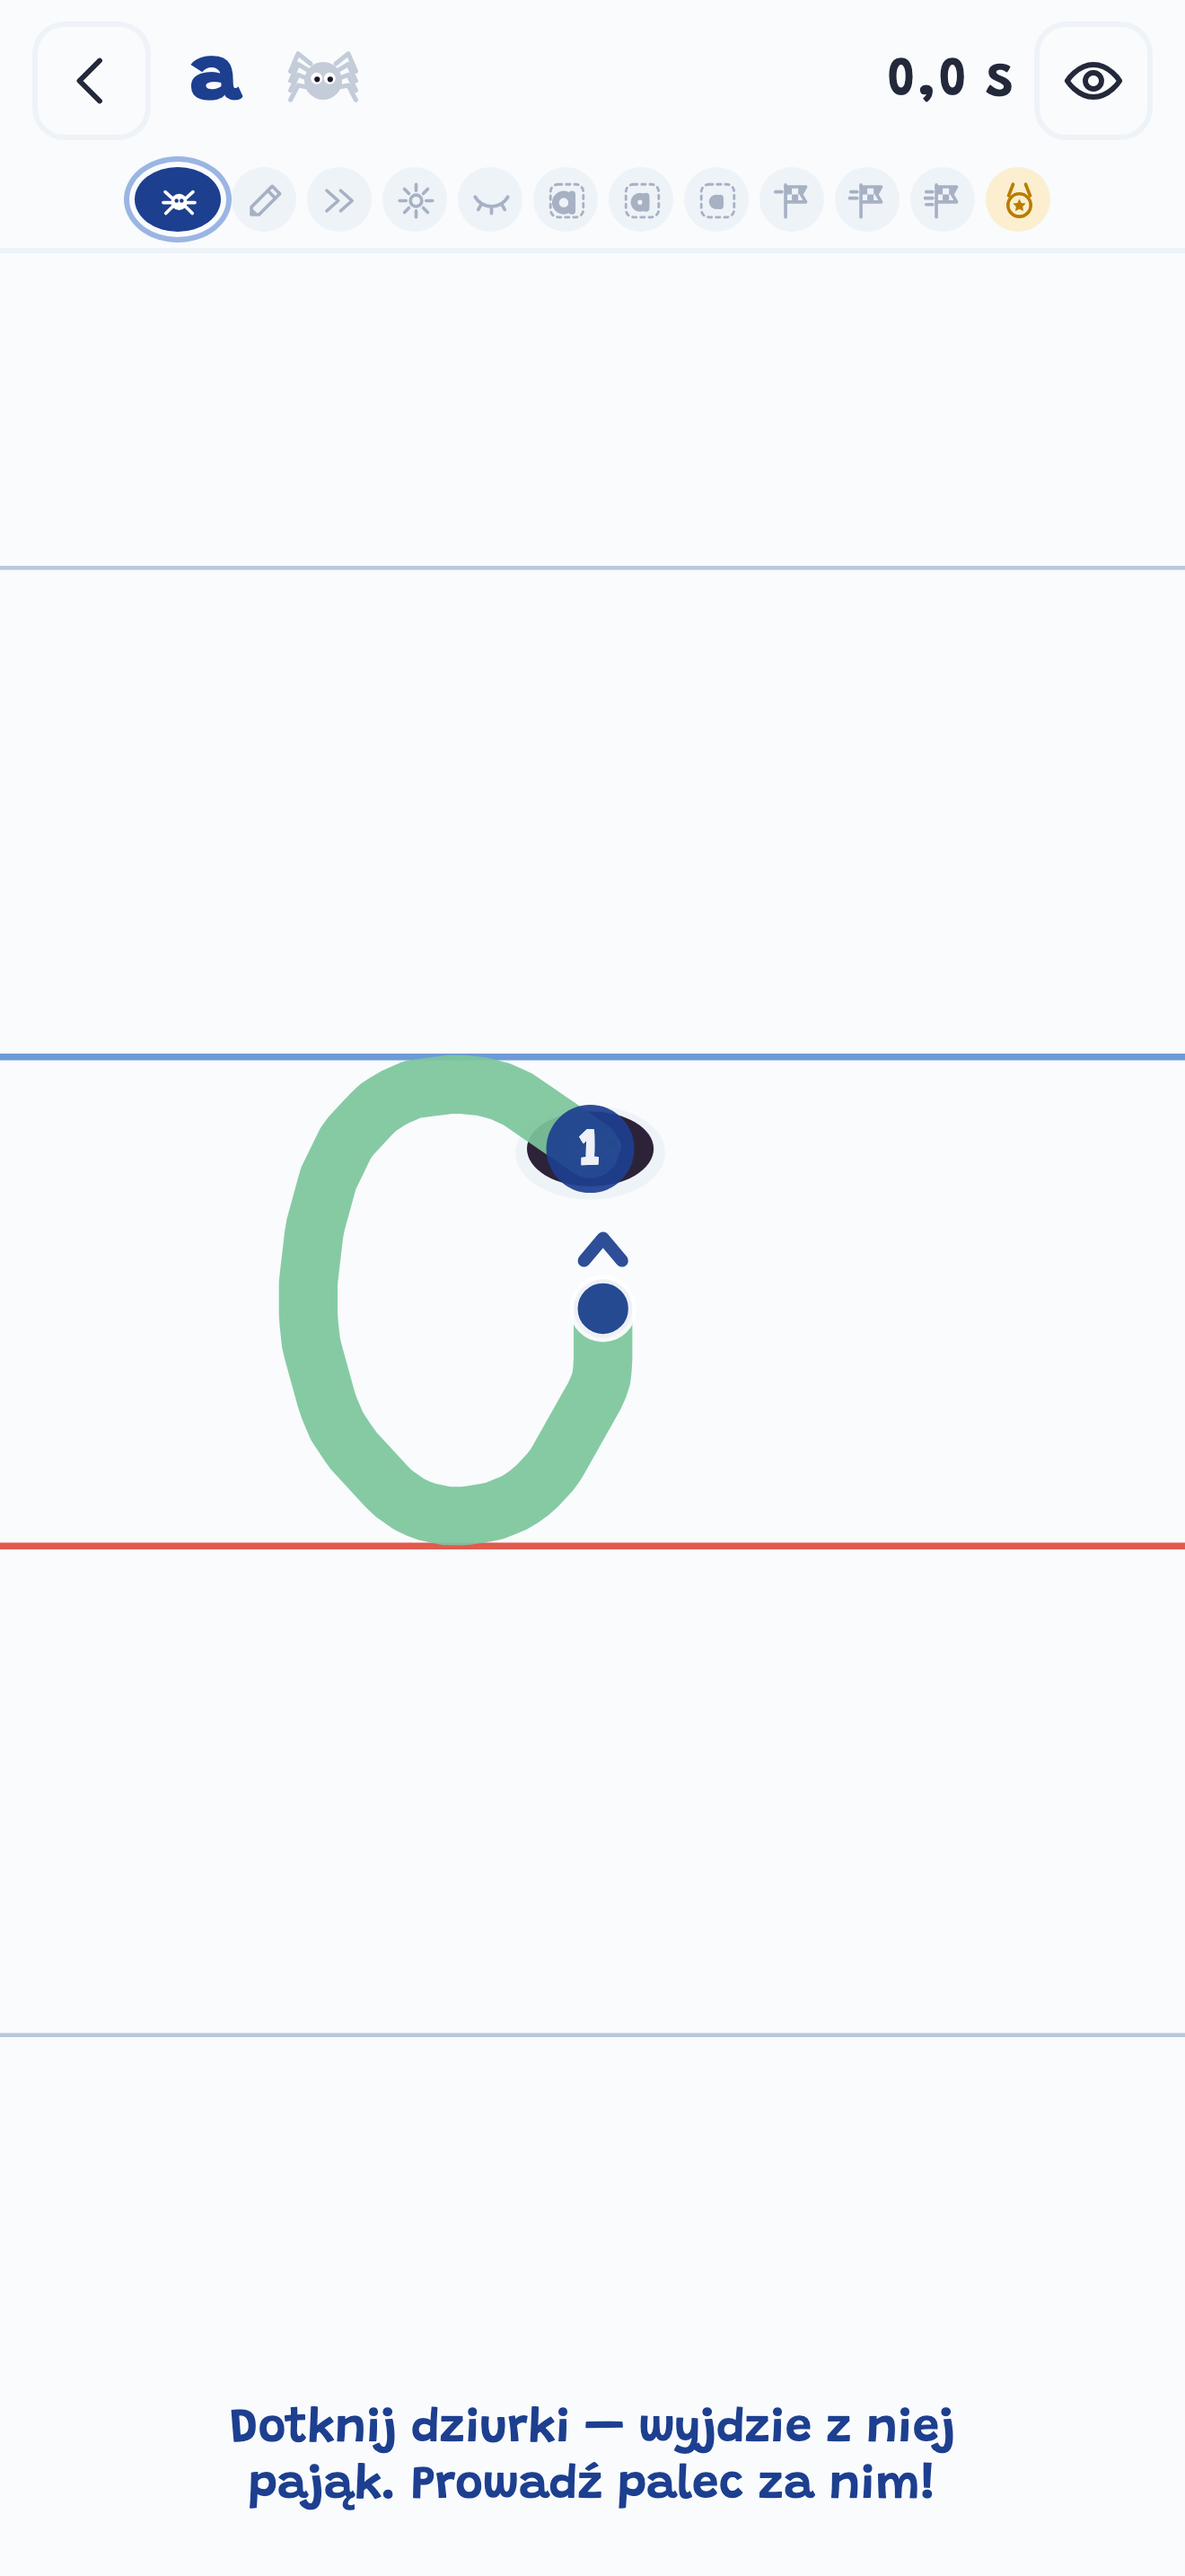
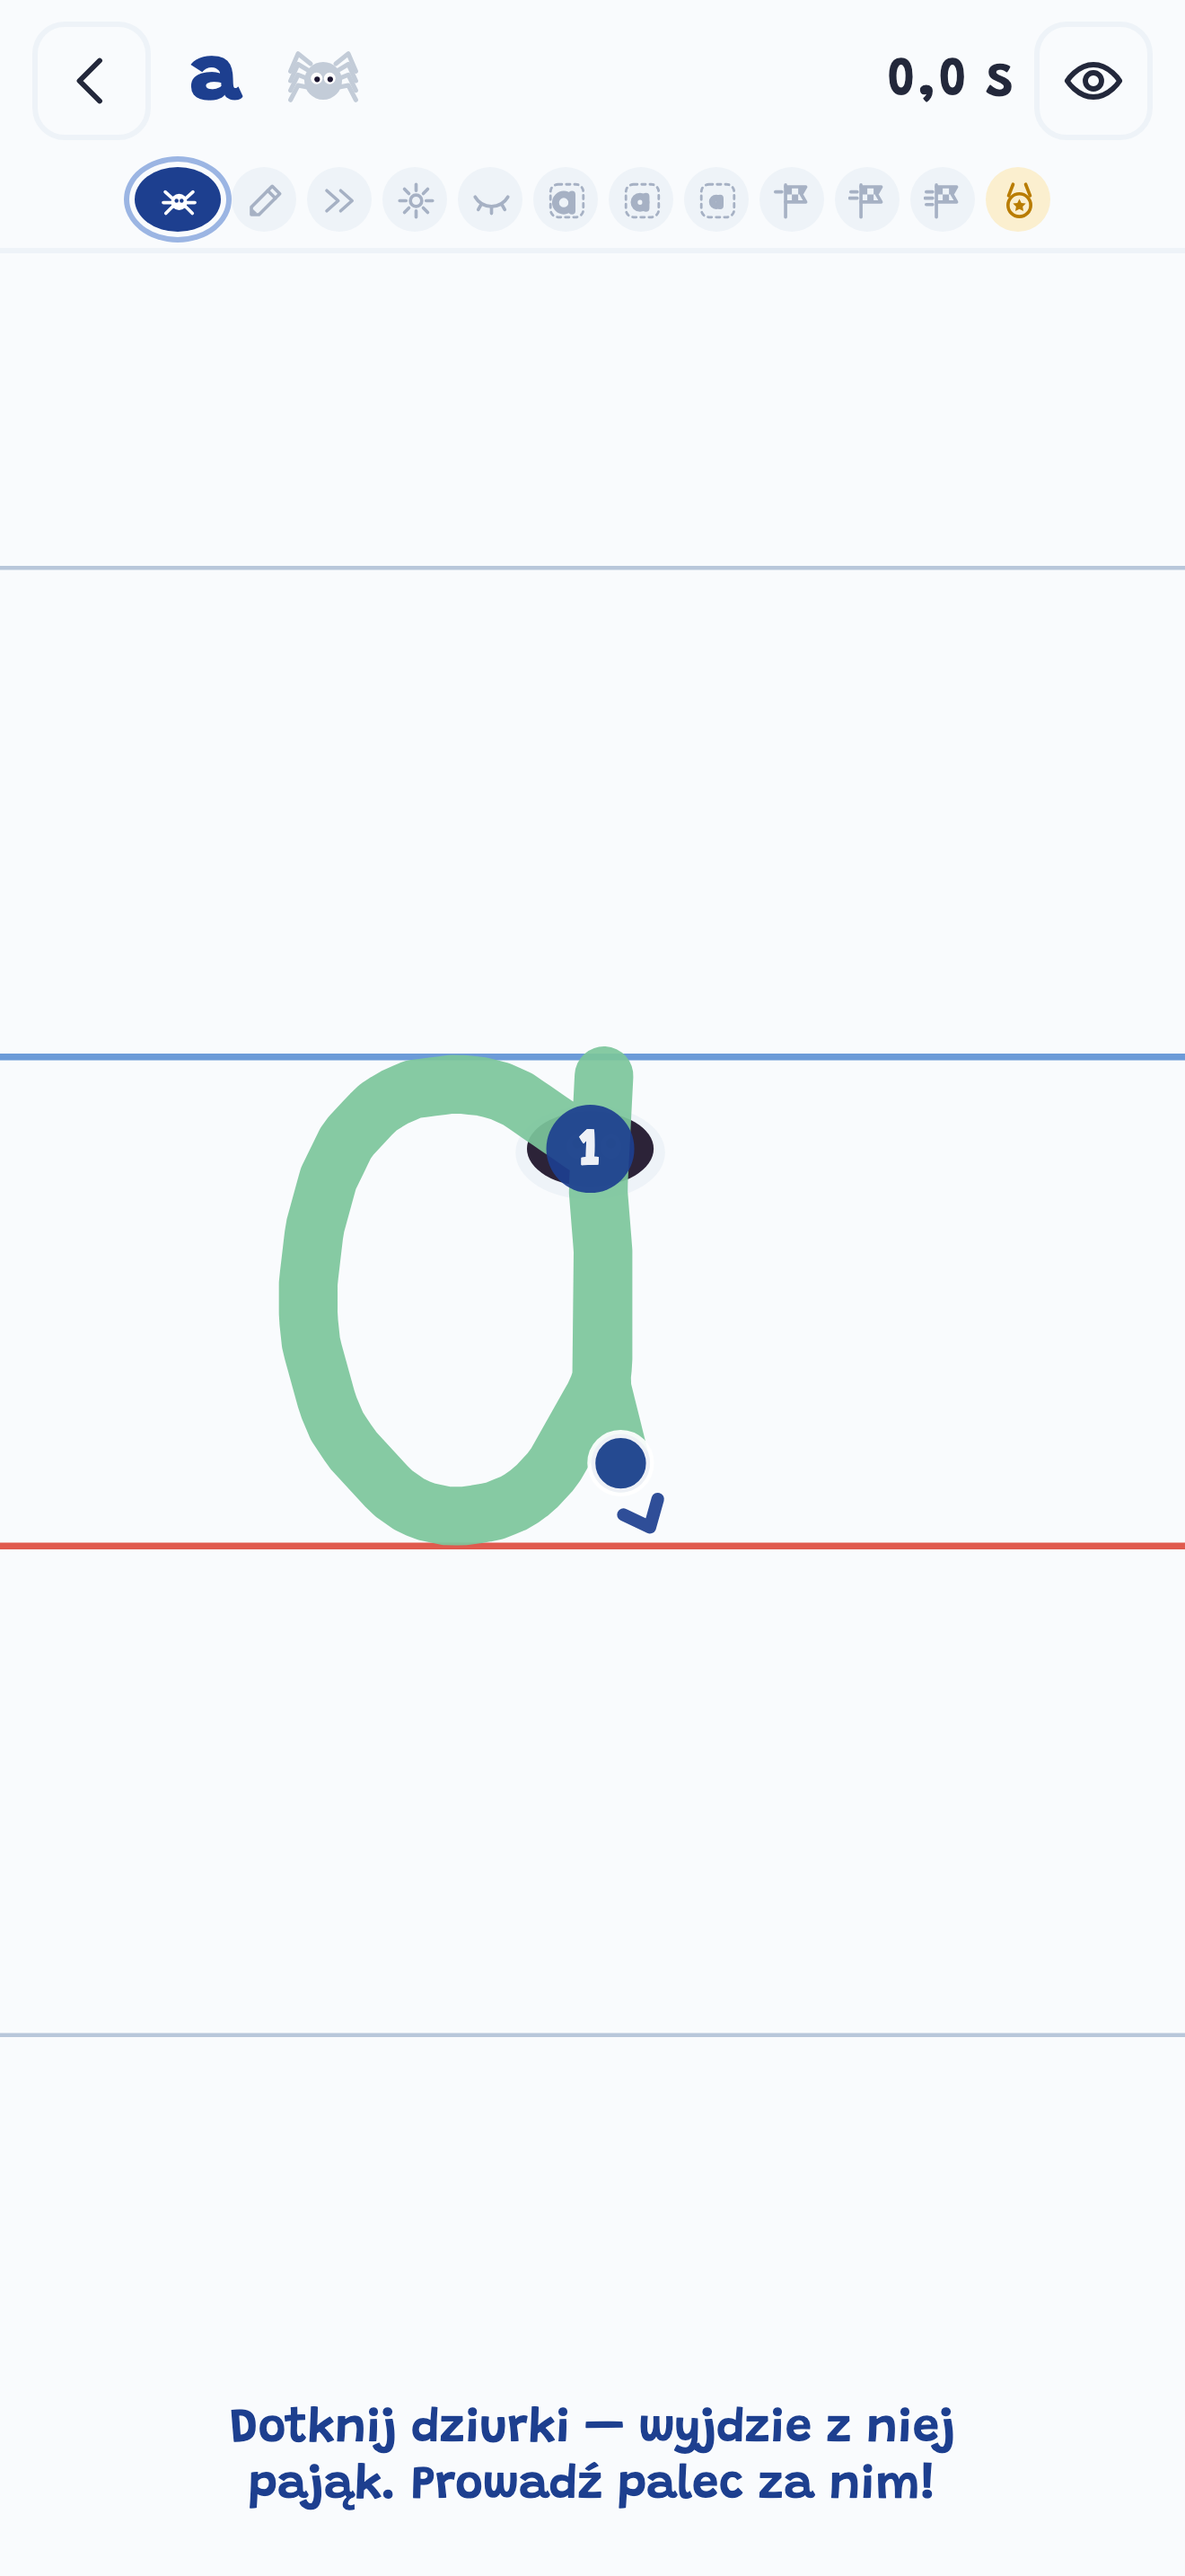
Correct 6 closure, extend 5 top bar and shorten s entry strokes

Changed region(s): [[0.4659, 0.4034, 0.5591, 0.6206]]

diff --git a/src/letters.js b/src/letters.js
@@ -23,8 +23,8 @@ const LETTERS = {
   'ó': [{ d: 'M 44.8 107 L 36.5 105.8 L 31.4 105.9 L 25.2 107.1 L 19.9 109.6 L 15.4 113.4 L 12 117.8 L 9.6 122.6 L 7.2 130.9 L 5.8 142 L 5.5 152.6 L 6.4 164 L 8.7 174.2 L 11.5 181 L 15.9 186.9 L 21.9 191.2 L 27.6 193.2 L 34.4 194 L 41 193.4 L 46.4 192 L 51 189.6 L 55 186 L 58 182 L 60 177.9 L 62.2 170.1 L 63.7 159.8 L 64 144.1 L 63.1 134.5 L 61.6 127.1 L 59.1 120.2 L 55.4 114.5 L 50.9 110.2 L 44.8 107' }, { d: 'M 47.2 56 L 23.2 76.2', name: 'kreska' }],
   'p': [{ d: 'M 2.2 158.8 L 2.7 156.5 L 6.9 147.6 L 23.8 113.1 L 25.5 111.5 L 29.4 109.9 L 30.5 110.5 L 31.3 112.4 L 34.7 128 L 35 280.8 L 34.8 128 L 36.1 124.9 L 44.5 113.9 L 48.9 110.2 L 54.1 107.6 L 59.8 106.1 L 65.9 105.6 L 72.5 106.1 L 75.9 107 L 79.6 108.9 L 82.7 112 L 84.7 116.8 L 85.7 126 L 85.8 167.6 L 87 180.6 L 88.3 184.2 L 90.2 186.9 L 93.5 189.6 L 97.6 191.8 L 102.1 193.2 L 108.2 193.8 L 114.9 192.5 L 120 189.5 L 124.3 185.2 L 130.1 177.8 L 137 167.2 L 142.5 157' }],
   'r': [{ d: 'M 1.2 157.8 L 9.2 138.9 L 18.3 120 L 20.4 117.7 L 35 106.2 L 43 130.7 L 43 194 L 43 131.1 L 44 128.5 L 54.8 114.2 L 58.2 110.4 L 60.1 109 L 62.6 108.1 L 64.6 108 L 75.1 112.2 L 80 112.7 L 85.2 112.1 L 89.4 111 L 93.5 108.9 L 97.8 105.9 L 100.2 103.2' }],
-  's': [{ d: 'M 2.2 156 L 35.2 110 L 36.9 108.6 L 40 107.5 L 45.1 109.3 L 53.4 115.9 L 58.5 121.1 L 62.2 125.8 L 67.9 134.8 L 71.2 142.5 L 72.6 148.9 L 73 157.6 L 71.7 168.5 L 70.2 174.5 L 67.7 180.8 L 63.9 187.1 L 60.9 190.3 L 58.4 192.1 L 55.2 193.2 L 51.5 193.8 L 48.2 194 L 42.8 193.2 L 39.4 192.1 L 36.1 190.3 L 29.8 184 L 26.8 179.5 L 24.5 174.8' }],
-  'ś': [{ d: 'M 3.5 156.5 L 35.1 110.1 L 36.9 108.6 L 40 107.5 L 45.1 109.3 L 53.4 115.9 L 58.5 121.1 L 62.2 125.8 L 67.9 134.8 L 71.2 142.5 L 72.6 148.9 L 73 157.6 L 71.7 168.5 L 70.2 174.5 L 67.7 180.8 L 63.9 187.1 L 60.9 190.3 L 58.4 192.1 L 55.2 193.2 L 51.5 193.8 L 48.2 194 L 42.8 193.2 L 39.4 192.1 L 36.1 190.3 L 29.8 184 L 26.8 179.5 L 24.5 174.8' }, { d: 'M 70.5 56 L 46.5 76.2', name: 'kreska' }],
+  's': [{ layoutMinX: 2.2, d: 'M 16.6375 135.875 L 35.2 110 L 36.9 108.6 L 40 107.5 L 45.1 109.3 L 53.4 115.9 L 58.5 121.1 L 62.2 125.8 L 67.9 134.8 L 71.2 142.5 L 72.6 148.9 L 73 157.6 L 71.7 168.5 L 70.2 174.5 L 67.7 180.8 L 63.9 187.1 L 60.9 190.3 L 58.4 192.1 L 55.2 193.2 L 51.5 193.8 L 48.2 194 L 42.8 193.2 L 39.4 192.1 L 36.1 190.3 L 29.8 184 L 26.8 179.5 L 24.5 174.8' }],
+  'ś': [{ layoutMinX: 2.2, d: 'M 16.6375 135.875 L 35.2 110 L 36.9 108.6 L 40 107.5 L 45.1 109.3 L 53.4 115.9 L 58.5 121.1 L 62.2 125.8 L 67.9 134.8 L 71.2 142.5 L 72.6 148.9 L 73 157.6 L 71.7 168.5 L 70.2 174.5 L 67.7 180.8 L 63.9 187.1 L 60.9 190.3 L 58.4 192.1 L 55.2 193.2 L 51.5 193.8 L 48.2 194 L 42.8 193.2 L 39.4 192.1 L 36.1 190.3 L 29.8 184 L 26.8 179.5 L 24.5 174.8' }, { d: 'M 70.5 56 L 46.5 76.2', name: 'kreska' }],
   't': [{ d: 'M 5.5 6 L 5.5 162.1 L 6.4 173 L 8.3 181 L 9.8 184 L 12.6 187.4 L 16.9 190.7 L 20.6 192.5 L 24 193.4 L 30.1 194 L 38.6 192.5 L 42.2 190.7 L 45.5 188.4 L 53.6 179.9 L 60 170.5 L 66 159.2' }, { d: 'M -19.5 50.5 L 30 50.5', name: 'poprzeczka' }],
   'u': [{ d: 'M 2.2 157.5 L 12.1 140 L 26.2 116.6 L 28.7 114.2 L 36.5 108.5 L 37.2 121.9 L 37.2 172.6 L 38.4 181.6 L 40.4 186.2 L 44.8 190.2 L 51.8 193 L 59.5 194 L 66.5 193.3 L 70.8 192.3 L 75.2 190.6 L 80.8 187.4 L 84.1 184.1 L 91.5 172.4 L 91.8 105.2 L 91.8 171.5 L 96.6 185.7 L 98.8 189.2 L 101.6 191.4 L 104.2 192.7 L 110 193.8 L 117.2 193 L 122.8 190.5 L 128.6 185.9 L 135.9 177.4 L 141.8 168.9 L 146.8 160' }],
   'w': [{ d: 'M -0.8 157.5 L 9.1 140.0 L 23.2 116.6 L 25.7 114.2 L 33.5 108.5 L 34.2 121.9 L 34.2 177.1 L 35.2 185.1 L 36.2 188.2 L 37.5 190.4 L 39.8 192.2 L 46.9 193.8 L 54 192.9 L 58 191.3 L 61.4 189.2 L 64.6 186.8 L 67.1 184.1 L 74.2 172.4 L 75.4 169.4 L 75.5 106 L 75.7 170.8 L 79.6 184.6 L 81.3 187.9 L 84 190.7 L 86.2 192.2 L 89.2 193.2 L 93.5 193.8 L 99.4 193.3 L 103.5 192 L 107.4 189.8 L 111.5 186.2 L 115.5 181.4 L 118.6 176.1 L 121.2 169.1 L 122.3 163 L 122.9 153.8 L 122.7 147.2 L 122.1 140.8 L 119.8 129.8 L 117.1 122.2 L 107.8 106.5 L 123.4 113.2 L 126.6 113.9 L 131.6 113.1 L 135.6 111.5 L 139 109 L 143.2 104.5' }],
@@ -68,8 +68,8 @@ const LETTERS = {
   '2': [{ d: 'M 18.3 29.1 L 19.1 26.6 L 21.0 23.8 L 26.8 17.2 L 31.5 13.4 L 39.3 9.2 L 46.8 6.7 L 55.2 5.5 L 63.0 5.7 L 71.2 6.9 L 78.0 9.3 L 83.3 12.5 L 89.0 17.5 L 92.7 22.5 L 96.0 28.8 L 97.9 35.6 L 98.6 41.2 L 98.6 50.0 L 97.8 55.9 L 95.1 65.0 L 90.6 74.4 L 86.6 80.9 L 5.5 193.5 L 25.2 187.4 L 35.2 185.0 L 45.8 185.4 L 54.0 187.4 L 67.1 192.5 L 72.1 193.7 L 78.0 194.2 L 84.6 193.0 L 91.5 189.2 L 96.7 183.8 L 99.7 179.1 L 103.7 175.6' }],
   '3': [{ d: 'M 12.4 33.8 L 9.0 30.3 L 8.7 29.1 L 16.8 19.7 L 21.8 15.1 L 28.0 10.6 L 34.6 7.6 L 41.1 6.0 L 50.2 5.5 L 57.4 6.3 L 63.0 7.6 L 68.6 9.8 L 74.9 13.3 L 78.9 16.4 L 82.0 19.4 L 85.7 24.1 L 89.0 30.9 L 90.4 37.2 L 90.8 44.7 L 89.3 53.4 L 85.6 61.6 L 80.8 68.4 L 72.0 77.7 L 64.6 83.8 L 62.2 87.2 L 64.3 90.3 L 77.0 102.2 L 87.3 116.6 L 90.1 122.2 L 93.5 132.8 L 95.2 143.4 L 95.2 151.2 L 93.3 161.2 L 91.2 166.9 L 87.5 173.4 L 83.3 178.4 L 77.1 184.0 L 68.3 189.7 L 60.2 192.8 L 55.5 193.7 L 48.6 194.2 L 43.6 193.6 L 36.4 191.2 L 30.8 188.2 L 21.8 181.5 L 16.2 175.9 L 8.8 166.2 L 5.5 160.9' }],
   '4': [{ d: 'M 46.2 5.6 L 5.5 134.4 L 95.2 134.4' }, { d: 'M 72.4 92.8 L 72.4 193.8', name: 'kreska' }],
-  '5': [{ d: 'M 10.1 6.0 L 7.0 100.0 C 18.0 83.0 33.0 82.0 44.2 82.0 C 78.0 82.0 102.1 106.0 102.1 131.6 L 101.1 143.4 L 99.2 151.9 L 95.9 160.0 L 90.5 170.0 L 83.9 178.4 L 78.6 183.7 L 71.4 188.5 L 63.9 192.0 L 58.0 193.7 L 48.3 194.3 L 41.8 193.3 L 32.4 189.7 L 25.8 186.1 L 16.8 179.3 L 10.3 172.5 L 5.5 165.6' }, { d: 'M 10.1 6.0 L 16.8 8.2 L 37.4 12.1 L 54.2 13.3 L 64.9 13.1 L 72.1 12.1 L 83.3 9.6', name: 'poprzeczka' }],
-  '6': [{ d: 'M 87.6 5.6 L 81.1 6.0 L 71.1 7.9 L 59.5 11.3 L 48.9 15.3 L 41.7 19.5 L 37.0 23.1 L 29.6 30.6 L 23.2 39.4 L 19.6 45.6 L 16.3 54.1 L 13.8 62.2 C 10.0 77.0 8.5 85.0 7.0 100.0 C 5.5 115.0 5.5 122.0 5.5 132.2 L 5.6 139.1 L 7.1 152.5 L 9.3 161.9 L 11.5 167.8 L 15.1 174.7 L 19.2 180.0 L 25.1 185.2 L 32.0 189.6 L 39.2 192.7 L 47.0 194.3 L 52.9 194.3 L 59.8 193.1 L 67.6 189.7 L 73.6 185.8 L 80.8 179.7 L 84.7 175.0 L 89.1 167.5 L 92.6 157.2 L 94.5 143.4 L 94.5 132.2 L 92.3 119.7 L 88.8 110.3 L 83.9 101.6 L 78.3 94.7 L 72.3 89.4 L 67.3 86.0 L 62.3 83.8 L 57.3 82.3 L 52.3 81.6 L 44.5 82.3 L 35.8 84.9 L 29.5 88.6 L 7.0 100.0' }],
+  '5': [{ d: 'M 10.1 6.0 L 7.0 100.0 C 18.0 83.0 33.0 82.0 44.2 82.0 C 78.0 82.0 102.1 106.0 102.1 131.6 L 101.1 143.4 L 99.2 151.9 L 95.9 160.0 L 90.5 170.0 L 83.9 178.4 L 78.6 183.7 L 71.4 188.5 L 63.9 192.0 L 58.0 193.7 L 48.3 194.3 L 41.8 193.3 L 32.4 189.7 L 25.8 186.1 L 16.8 179.3 L 10.3 172.5 L 5.5 165.6' }, { d: 'M 10.1 6.0 L 16.8 8.2 L 37.4 12.1 L 54.2 13.3 L 64.9 13.1 L 72.1 12.1 L 83.3 9.6 C 89.5 7.7 94.5 3.0 98.0 0.0', name: 'poprzeczka' }],
+  '6': [{ d: 'M 87.6 5.6 L 81.1 6.0 L 71.1 7.9 L 59.5 11.3 L 48.9 15.3 L 41.7 19.5 L 37.0 23.1 L 29.6 30.6 L 23.2 39.4 L 19.6 45.6 L 16.3 54.1 L 13.8 62.2 C 10.0 77.0 8.5 85.0 7.0 100.0 C 5.5 115.0 5.5 122.0 5.5 132.2 L 5.6 139.1 L 7.1 152.5 L 9.3 161.9 L 11.5 167.8 L 15.1 174.7 L 19.2 180.0 L 25.1 185.2 L 32.0 189.6 L 39.2 192.7 L 47.0 194.3 L 52.9 194.3 L 59.8 193.1 L 67.6 189.7 L 73.6 185.8 L 80.8 179.7 L 84.7 175.0 L 89.1 167.5 L 92.6 157.2 L 94.5 143.4 L 94.5 132.2 L 92.3 119.7 L 88.8 110.3 L 83.9 101.6 L 78.3 94.7 L 72.3 89.4 L 67.3 86.0 L 62.3 83.8 L 57.3 82.3 L 52.3 81.6 L 44.5 82.3 L 35.8 84.9 L 29.5 88.6 C 12.0 100.0 5.5 113.0 5.5 132.2' }],
   '7': [{ d: 'M 5.5 18.1 L 7.1 19.4 L 8.2 19.4 L 15.5 11.6 L 22.1 7.4 L 26.8 6.0 L 33.0 5.6 L 39.2 6.4 L 58.1 12.0 L 72.1 12.5 L 84.1 9.5 L 95.0 6.0 L 66.3 92.8 L 65.7 98.7 L 61.6 102.8 L 60.7 109.1 L 32.1 194.7' }, { d: 'M 34.2 100.6 L 56.1 100.6 L 61.4 102.1 L 65.8 99.4 L 70.8 100.6 L 86.8 100.6', name: 'poprzeczka' }],
   '8': [{ d: 'M 50.2 5.3 L 45.5 5.7 L 39.6 7.0 L 33.3 9.6 L 24.9 15.4 L 20.1 20.9 L 17.0 26.2 L 15.7 29.7 L 14.1 38.1 L 14.3 44.4 L 16.6 54.1 L 19.5 60.3 L 21.4 63.2 L 29.0 70.6 L 38.8 76.9 L 72.3 93.6 L 78.8 97.8 L 84.3 102.5 L 88.5 107.9 L 90.0 110.9 L 93.3 120.9 L 94.5 128.8 L 94.7 134.1 L 94.5 144.1 L 92.3 155.3 L 88.4 164.7 L 84.4 171.6 L 74.8 183.1 L 68.6 188.1 L 60.8 192.5 L 51.4 194.4 L 44.9 193.9 L 35.5 190.7 L 25.5 183.7 L 17.8 175.3 L 14.0 169.7 L 9.1 159.1 L 6.2 146.9 L 5.5 136.9 L 6.6 124.7 L 10.0 113.1 L 11.5 110.0 L 15.9 104.3 L 22.0 99.0 L 29.2 94.1 L 58.3 78.0 L 69.8 70.8 L 78.8 62.8 L 82.8 56.9 L 84.1 53.8 L 85.8 44.7 L 85.4 35.6 L 83.7 28.8 L 79.4 20.6 L 73.3 13.8 L 66.7 9.3 L 61.1 7.0 L 55.2 5.7 L 50.2 5.3' }],
   '9': [{ d: 'M 94.2 52.8 L 93.5 44.5 L 91.5 36.6 L 88.3 29.1 L 86.2 25.6 L 81.2 19.3 L 75.3 14.0 L 68.6 9.9 L 61.3 7.1 L 53.7 5.7 L 49.9 5.5 L 42.1 6.2 L 34.7 8.3 L 31.1 9.9 L 24.4 14.0 L 18.5 19.3 L 13.5 25.6 L 9.7 32.8 L 7.0 40.5 L 6.2 44.5 L 5.5 52.7 L 6.2 61.0 L 8.2 68.9 L 11.4 76.4 L 13.5 79.9 L 18.5 86.2 L 24.4 91.5 L 27.7 93.7 L 34.7 97.2 L 42.1 99.3 L 49.8 100.0 L 57.6 99.3 L 61.3 98.4 L 68.6 95.6 L 75.3 91.5 L 81.2 86.2 L 86.2 79.9 L 90.0 72.7 L 92.7 65.0 L 94.0 56.9 L 94.2 52.8 L 94.4 68.8 L 93.2 84.0 L 92.4 104.4 L 89.2 122.5 L 83.5 145.9 L 79.8 155.3 L 75.6 162.2 L 68.9 170.6 L 62.7 176.8 L 55.8 181.7 L 49.2 185.2 L 29.2 191.7 L 15.5 194.0 L 11.9 193.7' }],

diff --git a/tests/ui/digits.spec.js b/tests/ui/digits.spec.js
@@ -2,7 +2,7 @@ import { test, expect } from './fixtures.js';
 import { billingDevice } from './billing-device.js';
 import { openExercise, writeLetter } from './handwriting.js';
 
-for (const digit of ['5', '6']) {
+for (const digit of ['5', '6', 's', 'ś']) {
   test(`${digit}: updated model can be traced and written independently`, async ({ page }, testInfo) => {
     await billingDevice(page, { paid: true });
     await openExercise(page, digit);
@@ -67,3 +67,19 @@ test('ą and ę are centered on full-width guidelines, including with old saved 
   await page.getByRole('button', { name: 'mała literka ę, pełna wersja', exact: true }).click();
   await expect(page.locator('#paywallDialog')).toBeVisible();
 });
+
+// An independently drawn six, deliberately not read from LETTERS. Its final
+// curve closes downward, with a slightly different contour from the model.
+const handwrittenSix = [{ d: 'M 87 6 C 26 6 6 55 6 132 C 6 171 24 194 50 194 C 78 194 95 170 95 138 C 95 107 76 82 52 82 C 26 82 6 103 6 132' }];
+
+for (const level of [0, 1, 4]) {
+  test(`6: a handwritten downward closure passes level ${level}`, async ({ page }) => {
+    await billingDevice(page, { paid: true });
+    await openExercise(page, '6', level);
+    await writeLetter(page, '6', { inputStrokes: handwrittenSix });
+    await page.clock.runFor(2600);
+    await expect(page.locator('#result')).toBeVisible();
+    await expect(page.locator('#nextBtn')).toBeVisible();
+    expect(parseInt(await page.locator('#resAcc').textContent(), 10)).toBeGreaterThan(75);
+  });
+}

diff --git a/tests/ui/handwriting.js b/tests/ui/handwriting.js
@@ -20,7 +20,7 @@ export async function openExercise(page, letter, level = 0) {
   await page.clock.runFor(32);
 }
 
-export async function writeLetter(page, letter, { scale = 1, race = false, tick = 20 } = {}) {
+export async function writeLetter(page, letter, { scale = 1, race = false, tick = 20, inputStrokes } = {}) {
   // Letter paths provide pointer input only. Completion, scoring, rendering and
   // saving run through the real app; no calls into its private game functions.
   const shape = buildLetter(LETTERS[letter]);
@@ -31,7 +31,7 @@ export async function writeLetter(page, letter, { scale = 1, race = false, tick 
     * (scale < 1 ? scale : 0.8);
   const ox = box.x + (width - shape.width * s) / 2;
   const oy = box.y + 10 + (height - band * s) / 2 - top * s;
-  for (const stroke of shape.strokes) {
+  for (const stroke of (inputStrokes ? buildLetter(inputStrokes) : shape).strokes) {
     const points = stroke.pts.filter((_, i) => i % 2 === 0 || i === stroke.pts.length - 1);
     await page.mouse.move(ox + points[0][0] * s, oy + points[0][1] * s);
     await page.mouse.down();

diff --git a/src/geometry.js b/src/geometry.js
@@ -53,6 +53,11 @@ function buildLetter(strokes) {
   });
   let minX = Infinity, maxX = -Infinity, minY = Infinity, maxY = -Infinity;
   built.forEach((b) => b.pts.forEach(([x, y]) => { minX = Math.min(minX, x); maxX = Math.max(maxX, x); minY = Math.min(minY, y); maxY = Math.max(maxY, y); }));
+  // Keep the original horizontal frame when only a leading stroke is shortened.
+  // Otherwise centering the narrower shape also moves the unchanged letter body.
+  for (const stroke of strokes) {
+    if (Number.isFinite(stroke.layoutMinX)) minX = Math.min(minX, stroke.layoutMinX);
+  }
   built.forEach((b) => b.pts.forEach((p) => { p[0] -= minX; }));
   return { strokes: built, width: maxX - minX, minY, maxY };
 }
